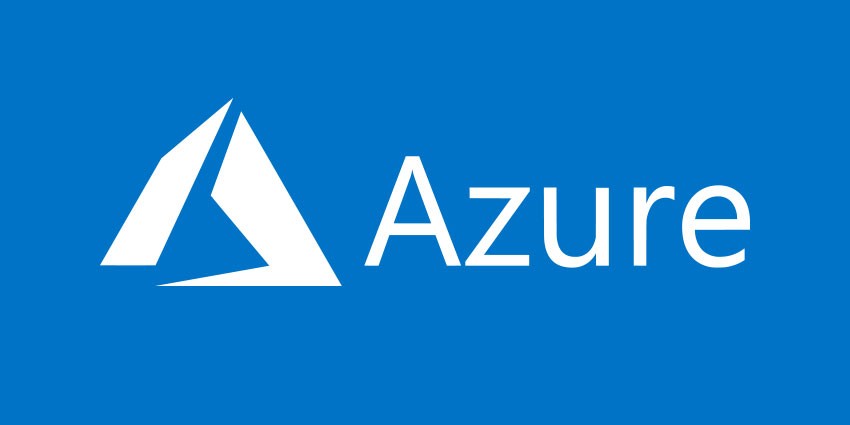
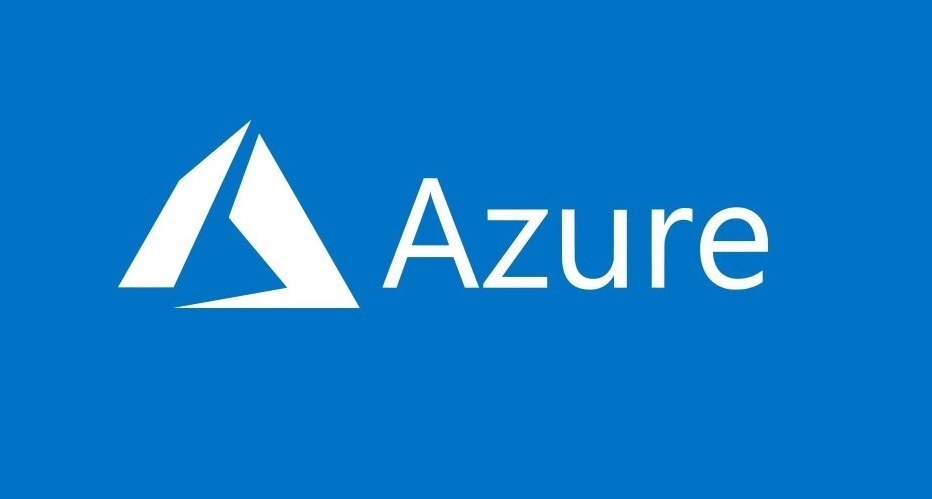
Updates

Changed region(s): [[0.1224, 0.2447, 0.8871, 0.6729], [0.3365, 0.4588, 0.3671, 0.5506]]

diff --git a/templates/index1.html b/templates/index1.html
@@ -147,8 +147,8 @@
                         <a class="portfolio-box" href="{{ url_for('static',filename='assets/img/portfolio/fullsize/6.jpg') }}"
                             ><img class="img-fluid" src="{{ url_for('static',filename='assets/img/portfolio/thumbnails/6.jpg') }}" alt="" />
                             <div class="portfolio-box-caption p-3">
-                                <div class="project-category text-white-50">Category</div>
-                                <div class="project-name">Project Name</div>
+                                <div class="project-category text-white-50">Deployment Server</div>
+                                <div class="project-name">Azure</div>
                             </div></a
                         >
                     </div>
